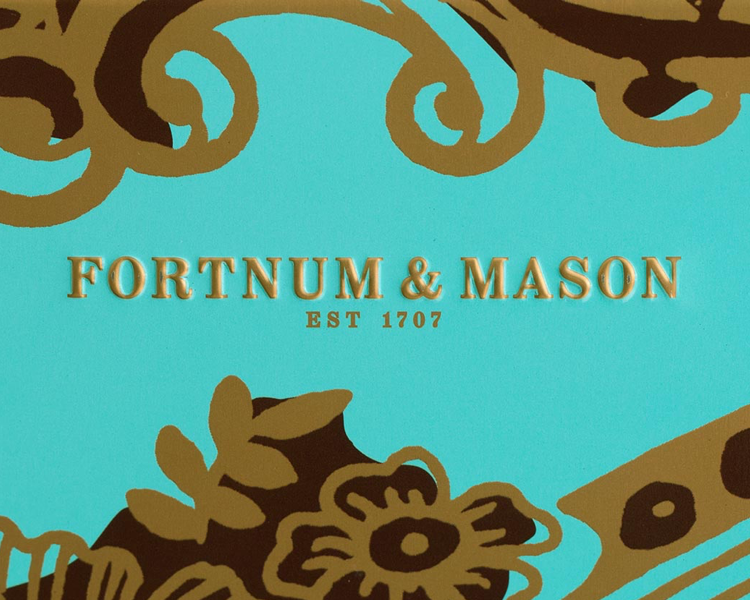
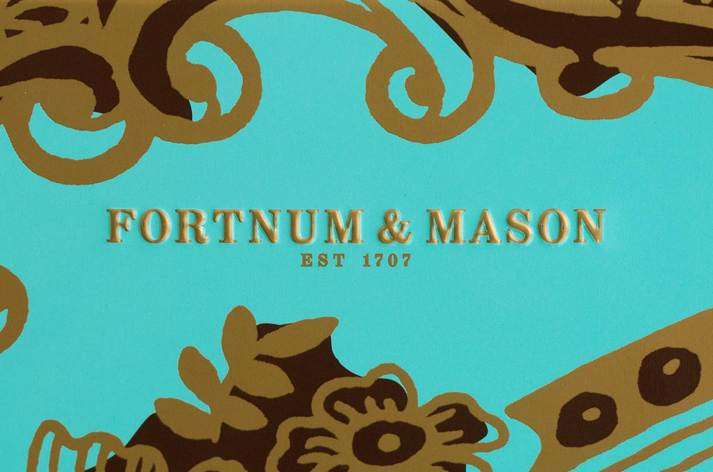
Change F&M splash header image assets

diff --git a/site/pages/our-work/case-study/fortnum-and-mason/index.js b/site/pages/our-work/case-study/fortnum-and-mason/index.js
@@ -4,8 +4,7 @@ import Social from '../../../../components/social';
 import styles from './style.css';
 
 import headerImageLarge from './images/header-large.png';
-import headerImageMedium from './images/header-medium-test.png';
-// import headerImageMedium from './images/header-medium.png';
+import headerImageMedium from './images/header-medium.png';
 import headerImageSmall from './images/header-small.png';
 import devicesImage from './images/devices.png';
 import tabletRestaurantImage from './images/tablet-restaurant.png';
